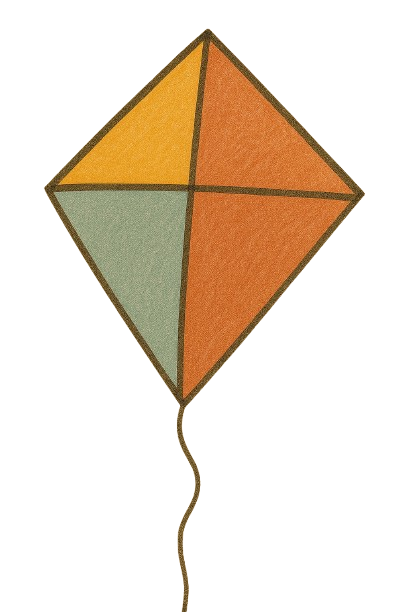
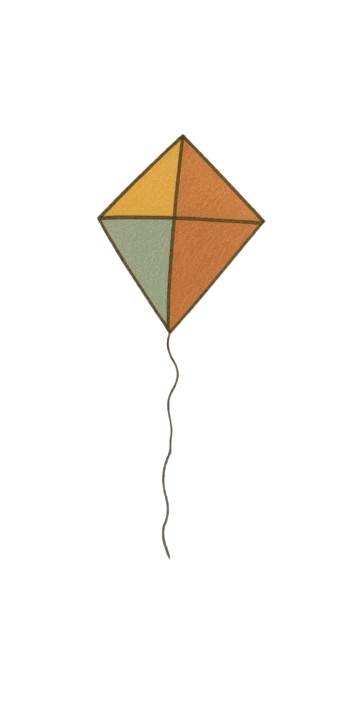
社群媒體更新

Changed region(s): [[0.1156, 0.031, 0.896, 0.8382], [0.4335, 0.8382, 0.4624, 1.0]]

diff --git a/style.css b/style.css
@@ -1426,8 +1426,8 @@ body {
 /* 社群媒體區塊 */
 .media-section {
   position: relative;
-  height: 100vh;
-  overflow: hidden;
+  min-height: 100vh; /* 至少滿一屏，但允許超過 */
+  overflow: visible; /* 讓超出部分顯示 */
 }
 
 .title {
@@ -1448,26 +1448,26 @@ body {
 /* 風箏初始位置 */
 .kite {
   position: absolute;
-  bottom: -180px;
-  left: 25%;
-  width: 250px;
+  bottom: -600px;
+  left: 18%;
+  width: 450px;
   opacity: 0;
-  transition: transform 2.5s ease-out, bottom 2.5s ease-out, opacity 1.2s ease-out;
+  transition: bottom 1.8s ease-out, opacity 0.8s ease-out;
 }
 .kite.float {
-  bottom: 20%;
-  transform: translateY(-10px);
+  bottom:-40%; /* 調整這個數字決定停在哪裡 */
   opacity: 1;
 }
 
 /* 社群卡片 */
 .social-cards {
   position: absolute;
-  right: 20%;
+  right: 15%;
   top: 30%;
-  display: flex;
-  flex-direction: column;
-  gap: 1.5rem;
+  display: grid;
+  grid-template-columns: repeat(2, 1fr); /* 兩欄 */
+  gap: 1.5rem 2rem; /* 上下間距 1.5rem，左右間距 2rem */
+  width: 600px;     /* 控制整體寬度，可以依需要調整 */
 }
 
 .info-card {
@@ -1475,16 +1475,13 @@ body {
   padding: 1rem;
   border-radius: 12px;
   backdrop-filter: blur(5px);
-  width: 280px;
-}
+  width: 100%;              /* 填滿格子 */
+  box-sizing: border-box;
 
-.info-card img {
-  width: 100%;
-  border-radius: 8px;
-}
+  display: flex;
+  flex-direction: column;
+  gap: 0.5rem;
 
-/* 浮現動畫 */
-.info-card {
   opacity: 0;
   transform: translateY(30px);
   transition: opacity 0.8s ease, transform 0.8s ease;
@@ -1494,6 +1491,37 @@ body {
   opacity: 1;
   transform: translateY(0);
 }
+
+.info-card img {
+  width: 100%;
+  border-radius: 8px;
+}
+
+.info-card h3,
+.info-card p,
+.info-card a {
+  margin: 0;
+  line-height: 1.3; /* 預設大約 1.6，改小字距就會緊密 */
+}
+
+.info-card h3 {
+  color: #2c2c2c;   /* 深色標題 */
+  font-weight: bold;
+}
+
+.info-card p {
+  color: #555;      /* 次要資訊灰色 */
+}
+
+.info-card a {
+  color: #6b3e96;   /* 按鈕或連結紫色 */
+  font-weight: 600;
+  text-decoration: none;
+}
+.info-card a:hover {
+  text-decoration: underline;
+}
+
 
 /* 回到頂端按鈕 */
 #back-to-top {
@@ -1509,6 +1537,7 @@ body {
   pointer-events: none;
   transition: opacity 0.3s ease;
 }
+
 
 /* 圖片大小可調 */
 #back-to-top img {

diff --git a/script.js b/script.js
@@ -551,30 +551,37 @@ gsap.to(plane, {
 
 
 // ✅ 社群媒體風箏
- const kite = document.querySelector('.kite');
-  const cards = document.querySelectorAll('.info-card');
+document.addEventListener('DOMContentLoaded', () => {
+  const section = document.querySelector('#media');
+  const kite = section.querySelector('.kite');
+  const cards = [...section.querySelectorAll('.info-card')];
 
-function revealOnScroll() {
-  const windowHeight = window.innerHeight;
+  const observer = new IntersectionObserver(entries => {
+    entries.forEach(entry => {
+      if (entry.isIntersecting) {
+        // 風箏浮上
+        kite.classList.add('float');
 
-  // 風箏浮上
-  const kiteTop = kite.getBoundingClientRect().top;
-  if (kiteTop < windowHeight - 100) {
-    kite.classList.add('float');
-  }
+        // 卡片依序浮現
+        cards.forEach((card, i) => {
+          card.style.setProperty('--delay', `${i * 0.2}s`); // 每張延遲 0.2s
+          // 先重置再加上 show → 確保每次進入都能重新播放
+          card.classList.remove('show');
+          requestAnimationFrame(() => card.classList.add('show'));
+        });
+      } else {
+        // 區塊離開後重置，下次再進來會重新播放
+        kite.classList.remove('float');
+        cards.forEach(card => card.classList.remove('show'));
+      }
+    });
+  }, { threshold: 0.3 });
 
-  // 卡片依序浮現
-  cards.forEach((card, index) => {
-    const cardTop = card.getBoundingClientRect().top;
-    if (cardTop < windowHeight - 50) {
-      card.style.setProperty('--delay', `${index * 0.2}s`);
-      card.classList.add('show');
-    }
-  });
-}
+  observer.observe(section);
+});
 
-window.addEventListener('scroll', revealOnScroll);
-revealOnScroll();
+
+
 
 
 // 返回頂部按鈕

diff --git a/resonance.html b/resonance.html
@@ -611,17 +611,24 @@
     <!-- 右側社群卡片 -->
     <div class="social-cards">
       <div class="info-card">
-        <img src="https://via.placeholder.com/280x120" alt="Instagram">
+        <img src="IG.png" alt="Instagram">
           <h3>Instagram</h3>
-          <p>@resonance_official</p>
-          <a href="#">前往</a>
+          <p>@re_sonance.111</p>
+          <a href="https://www.instagram.com/re_sonance.111?igsh=MW9sdnY3ZDlsY2x4cg==" target="_blank" rel="noopener noreferrer">前往</a>
       </div>
 
       <div class="info-card">
-        <img src="https://via.placeholder.com/280x120" alt="Facebook">
-          <h3>Facebook</h3>
-          <p>@resonance_fb</p>
-          <a href="#">前往</a>
+        <img src="YT.png" alt="YouTube">
+          <h3>YouTube</h3>
+          <p>@時代共振</p>
+          <a href="https://youtube.com/channel/UCCuDVZzwxBbJklGmeJHXXTw?si=k2CI14oaqBEjUomM" target="_blank" rel="noopener noreferrer">前往</a>
+      </div>
+
+      <div class="info-card">
+        <img src="Threads.png" alt="Threads">
+          <h3>Threads</h3>
+          <p>@re_sonance.111</p>
+          <a href="https://www.threads.com/@re_sonance.111?igshid=NTc4MTIwNjQ2YQ==" target="_blank" rel="noopener noreferrer">前往</a>
       </div>
     </div>
   </div>
